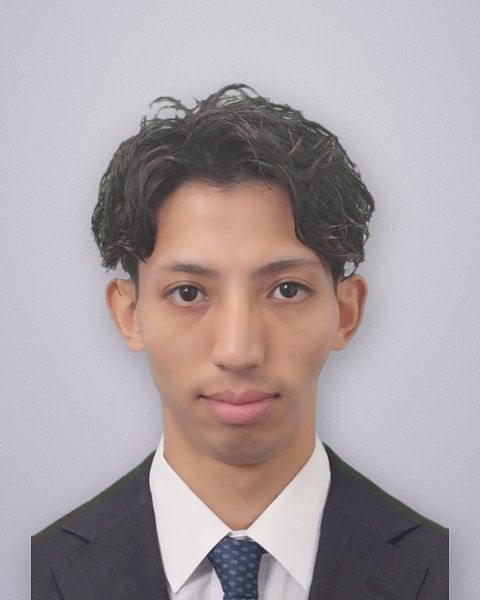
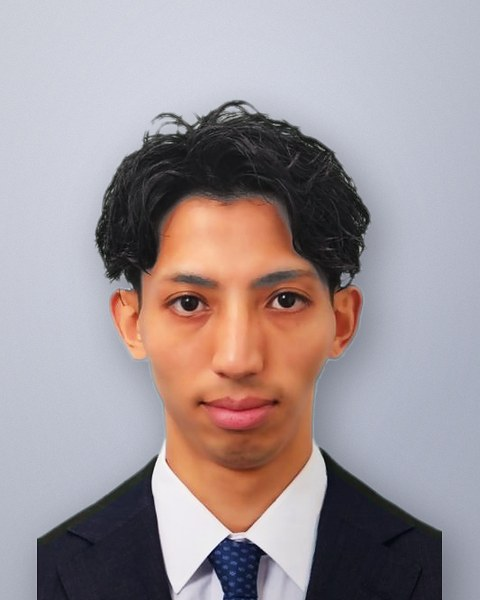
Team: regrade Tajima portrait (richer tone, warmer skin, studio-grey backdrop)
Claude-Session: https://claude.ai/code/session_01MkkzdUtcpWSgioViczhdWi

diff --git a/index.html b/index.html
@@ -24,7 +24,7 @@
   <link rel="preconnect" href="https://fonts.googleapis.com">
   <link rel="preconnect" href="https://fonts.gstatic.com" crossorigin>
   <link rel="stylesheet" href="https://fonts.googleapis.com/css2?family=Outfit:wght@200;300;400;500&family=Noto+Sans+JP:wght@300;400;500;700&family=Noto+Sans+SC:wght@300;400;500;700&display=swap">
-  <link rel="stylesheet" href="styles.css?v=20261119e">
+  <link rel="stylesheet" href="styles.css?v=20261119f">
   <title>ARCSET | Cross-border business development and AI solutions, Tokyo</title>
 </head>
 <body>
@@ -462,6 +462,6 @@
     "knowsLanguage": ["ja", "en", "zh"]
   }
   </script>
-  <script src="script.js?v=20261119e"></script>
+  <script src="script.js?v=20261119f"></script>
 </body>
 </html>
